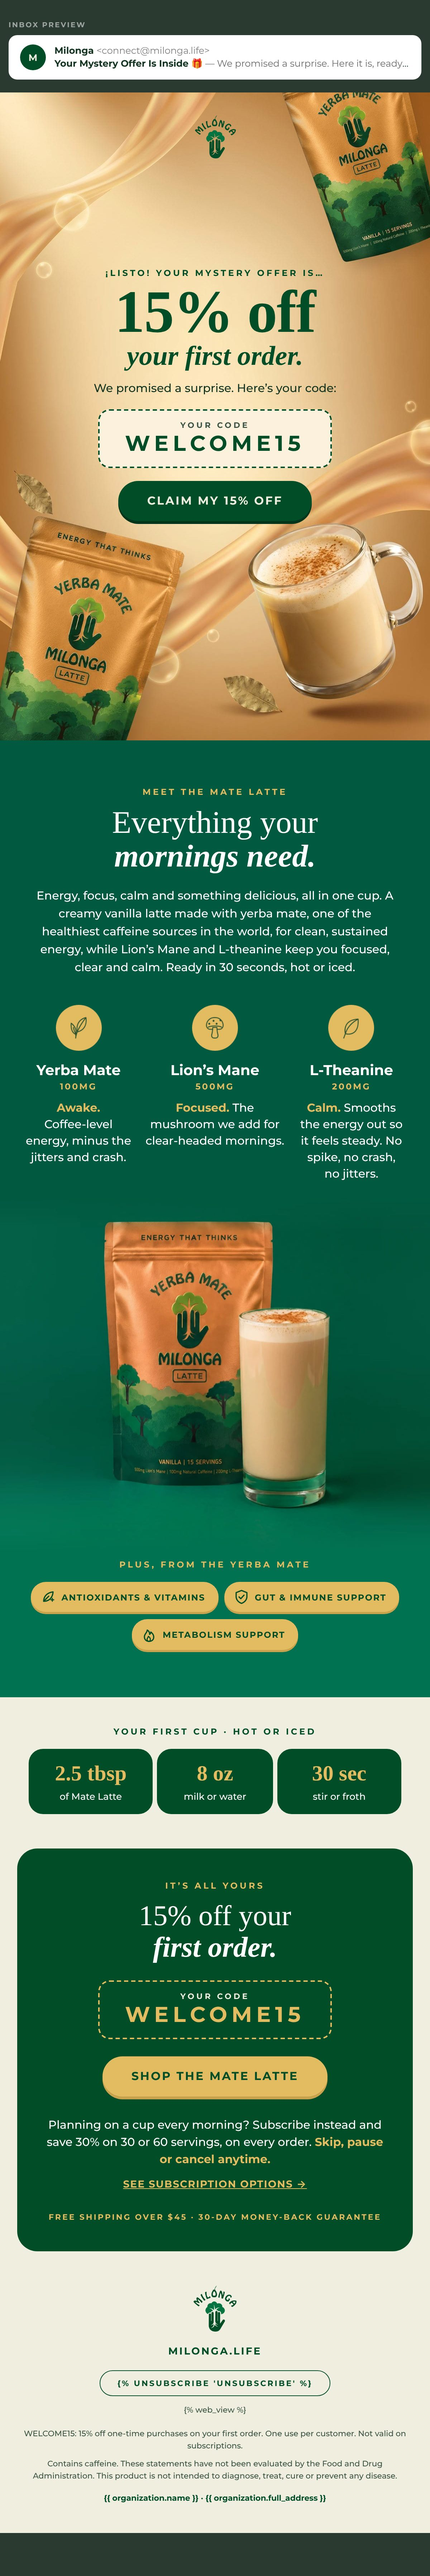
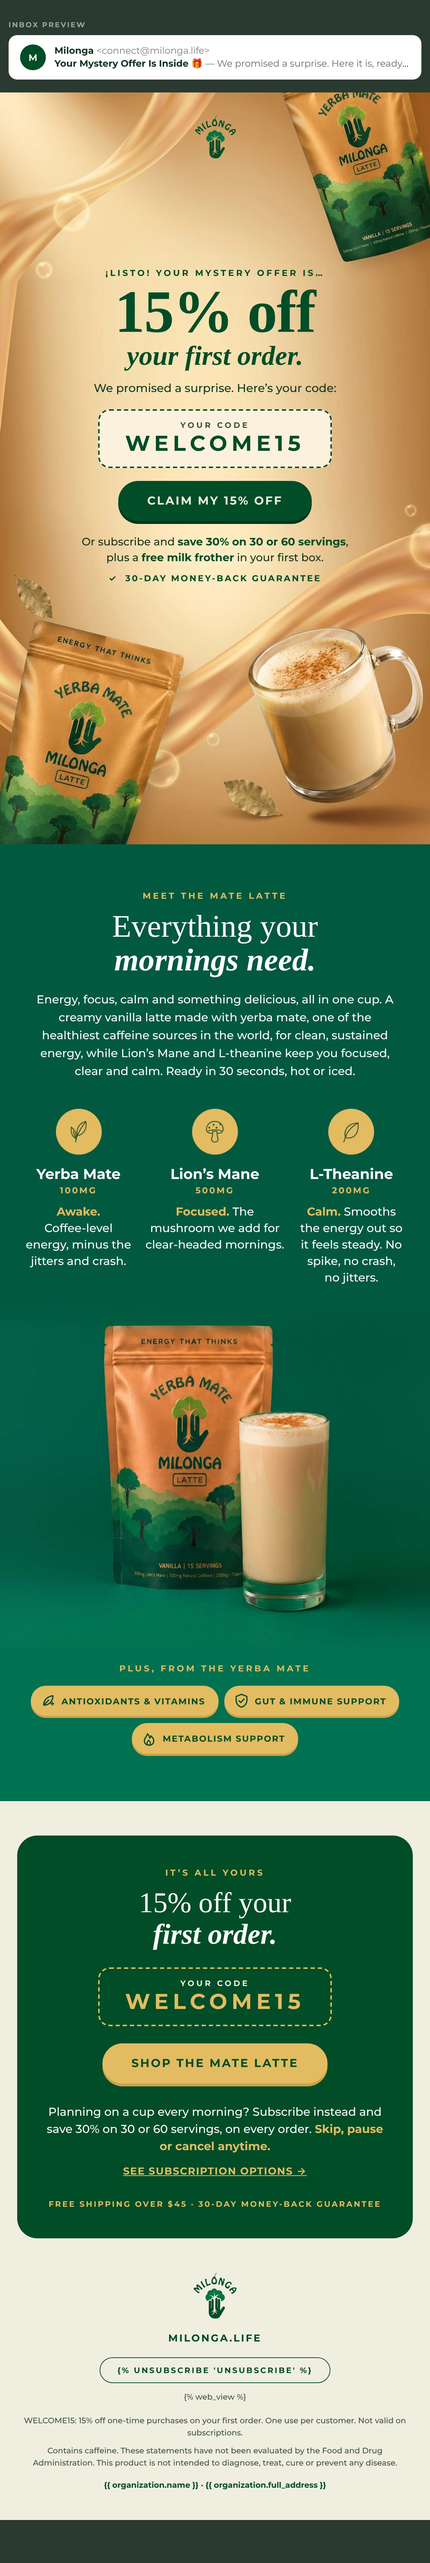
Welcome flow E1: taller hero background on Klaviyo's CDN, README and renders updated
Claude-Session: https://claude.ai/code/session_01NhEtXPnfeCJfN73SqBkUZ5

diff --git a/email-ds/exports/klaviyo/welcome-e1/welcome-e1.html b/email-ds/exports/klaviyo/welcome-e1/welcome-e1.html
@@ -36,8 +36,8 @@
 <table role="presentation" class="wrap" width="600" cellpadding="0" cellspacing="0" border="0" style="width:600px;max-width:600px;">
 
 <!-- ── 1 · THE REVEAL (gold silk, forest type) ───────────────────────── -->
-<tr><td class="bg-hero" align="center" valign="top" height="1049" background="https://cdn.klaviyomail.com/company/TwvSnK/images/77f8ca1f-1973-4ad8-a8bd-2133aa45e3c2.jpeg" bgcolor="#F2D9A6" style="height:1049px;background-color:#F2D9A6;background-image:url('https://cdn.klaviyomail.com/company/TwvSnK/images/77f8ca1f-1973-4ad8-a8bd-2133aa45e3c2.jpeg');background-size:cover;background-position:center top;background-repeat:no-repeat;padding:0;">
-<!--[if gte mso 9]><v:rect xmlns:v="urn:schemas-microsoft-com:vml" fill="true" stroke="false" style="width:600px;height:1049px;"><v:fill type="frame" src="https://cdn.klaviyomail.com/company/TwvSnK/images/77f8ca1f-1973-4ad8-a8bd-2133aa45e3c2.jpeg" color="#F2D9A6" /><v:textbox inset="0,0,0,0"><![endif]-->
+<tr><td class="bg-hero" align="center" valign="top" height="1049" background="https://cdn.klaviyomail.com/company/TwvSnK/images/cb0b2e1a-57ba-499a-91e5-c1e70ff5b3b3.jpeg" bgcolor="#F2D9A6" style="height:1049px;background-color:#F2D9A6;background-image:url('https://cdn.klaviyomail.com/company/TwvSnK/images/cb0b2e1a-57ba-499a-91e5-c1e70ff5b3b3.jpeg');background-size:cover;background-position:center top;background-repeat:no-repeat;padding:0;">
+<!--[if gte mso 9]><v:rect xmlns:v="urn:schemas-microsoft-com:vml" fill="true" stroke="false" style="width:600px;height:1049px;"><v:fill type="frame" src="https://cdn.klaviyomail.com/company/TwvSnK/images/cb0b2e1a-57ba-499a-91e5-c1e70ff5b3b3.jpeg" color="#F2D9A6" /><v:textbox inset="0,0,0,0"><![endif]-->
 <div class="hero-in" style="padding:32px 40px 0;font-family:'Montserrat','Helvetica Neue',Helvetica,Arial,sans-serif;color:#004D27;text-align:center;">
 <a href="https://milonga.life/?utm_source=klaviyo&amp;utm_medium=email&amp;utm_campaign=welcome_mystery_offer&amp;utm_content=e1_logo" target="_blank"><img src="https://cdn.klaviyomail.com/company/TwvSnK/images/b6a03046-605a-4e87-b22f-a530be1633e3.png" width="57" height="60" alt="Milonga" style="display:block;margin:0 auto;width:57px;height:60px;border:0;"></a>
 <div style="height:152px;line-height:152px;font-size:0;">&nbsp;</div>
